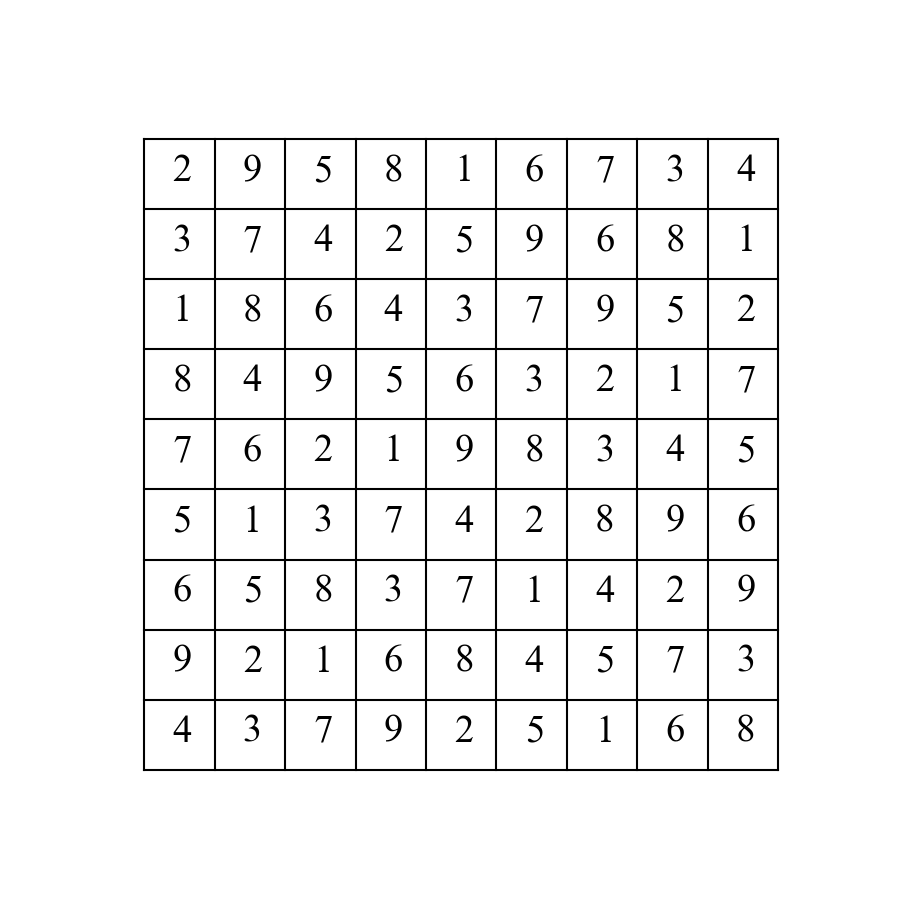
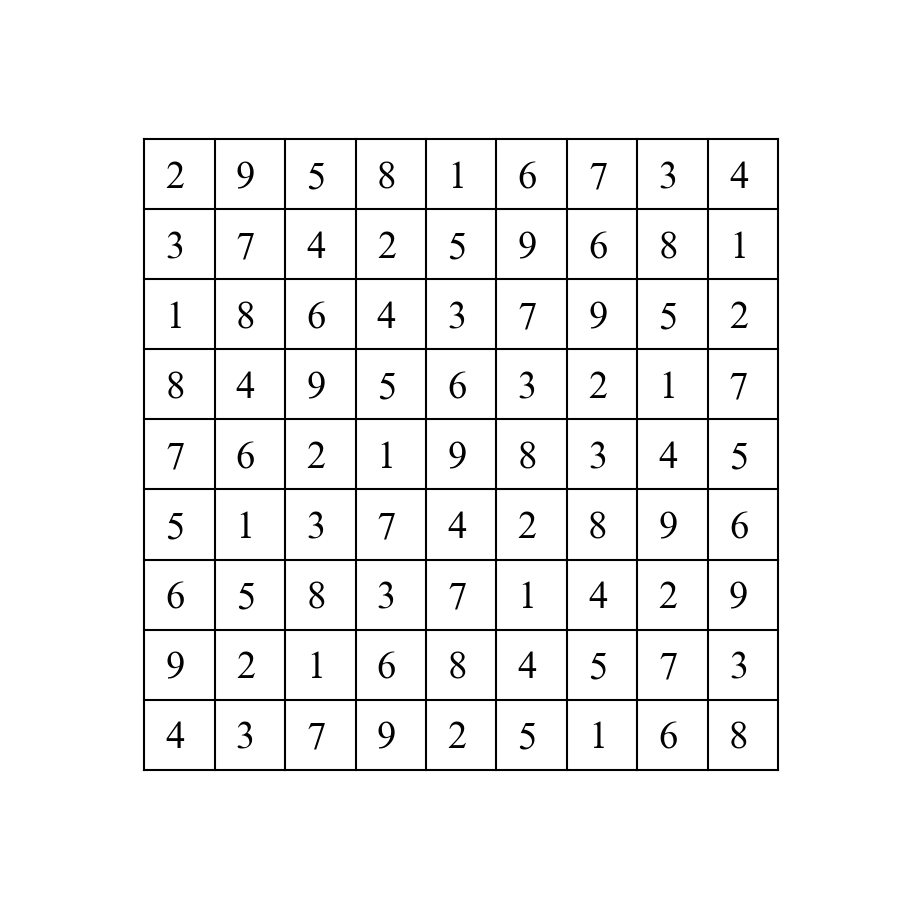
mnist test

diff --git a/Chapter03/2022/project_sudoku/recognize_sudoku_board.py b/Chapter03/2022/project_sudoku/recognize_sudoku_board.py
@@ -76,13 +76,15 @@ if __name__ == "__main__":
             image_part = cv2.resize(image_part, dsize=(28, 28), interpolation=cv2.INTER_LINEAR)
             image_part = 1 - image_part / 255.
             image_part[image_part > 0.1] = 1
+            # image_part[image_part < 0.2] = 0
             image_part = tf.convert_to_tensor(image_part, dtype=tf.float32)
             image_part = tf.expand_dims(image_part, 0)
     
             num_prob = mnist_model.predict(image_part)
             num_pred = num_prob.argmax(axis=-1)[0]
-            plt.imshow(image_part[0])
-            plt.title(str(num_pred))
-            plt.show()
+            # plt.figure()
+            # plt.imshow(image_part[0])
+            # plt.title(str(num_pred))
+            # plt.show()
             
     cv2.destroyAllWindows()

diff --git a/Chapter03/2022/project_sudoku/draw_sudoku_board.py b/Chapter03/2022/project_sudoku/draw_sudoku_board.py
@@ -37,10 +37,9 @@ if __name__ == "__main__":
     
     for i in range(0, sudoku_size):
         for j in range(0, sudoku_size):
-            plt.text(i + 0.4, j + 0.4, str(sudoku[(sudoku_size - 1) - i][j]))
+            plt.text(i + 0.3, j + 0.3, str(sudoku[(sudoku_size - 1) - i][j]))
     
     # plt.title(sudoku_title)
     plt.axis('off')
     plt.savefig('sudoku_board.png')
     plt.close()
-    
